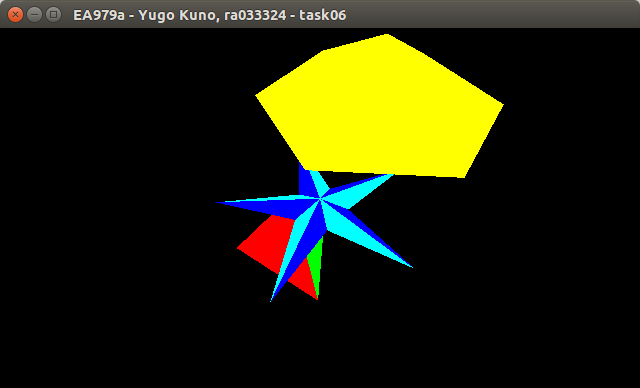
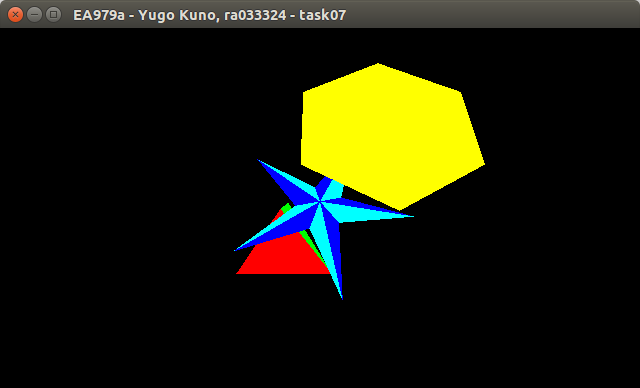
Minor corrections.

Changed region(s): [[0.3438, 0.4021, 0.7812, 0.7732], [0.4062, 0.0928, 0.7812, 0.4021], [0.5312, 0.0309, 0.5625, 0.0619]]

diff --git a/2016-06-09_-_task07/ea979a_-_ra033324_yugo_kuno_-_task07.c b/2016-06-09_-_task07/ea979a_-_ra033324_yugo_kuno_-_task07.c
@@ -1,3 +1,8 @@
+/* by yugo kuno, ra033324 */
+/* copyleft material: free to reuse, but acknowledgement required! */
+/* ea979a, task07 */
+/* 2016-06-08 */
+
 #include <GL/glut.h>
 #include <math.h>
 #include <stdio.h>
@@ -345,7 +350,7 @@ int main(int argn, char** argv) {
   /* glutInitWindowSize(1280, 720); */
   glutInitWindowSize(640, 360);
   glutInitWindowPosition(0, 0);
-  glutCreateWindow("EA979a - Yugo Kuno, ra033324 - task06");
+  glutCreateWindow("EA979a - Yugo Kuno, ra033324 - task07");
 
   /* glEnable(GL_BLEND); */
   /* glBlendFunc(GL_SRC_ALPHA, GL_ONE_MINUS_SRC_ALPHA); */
